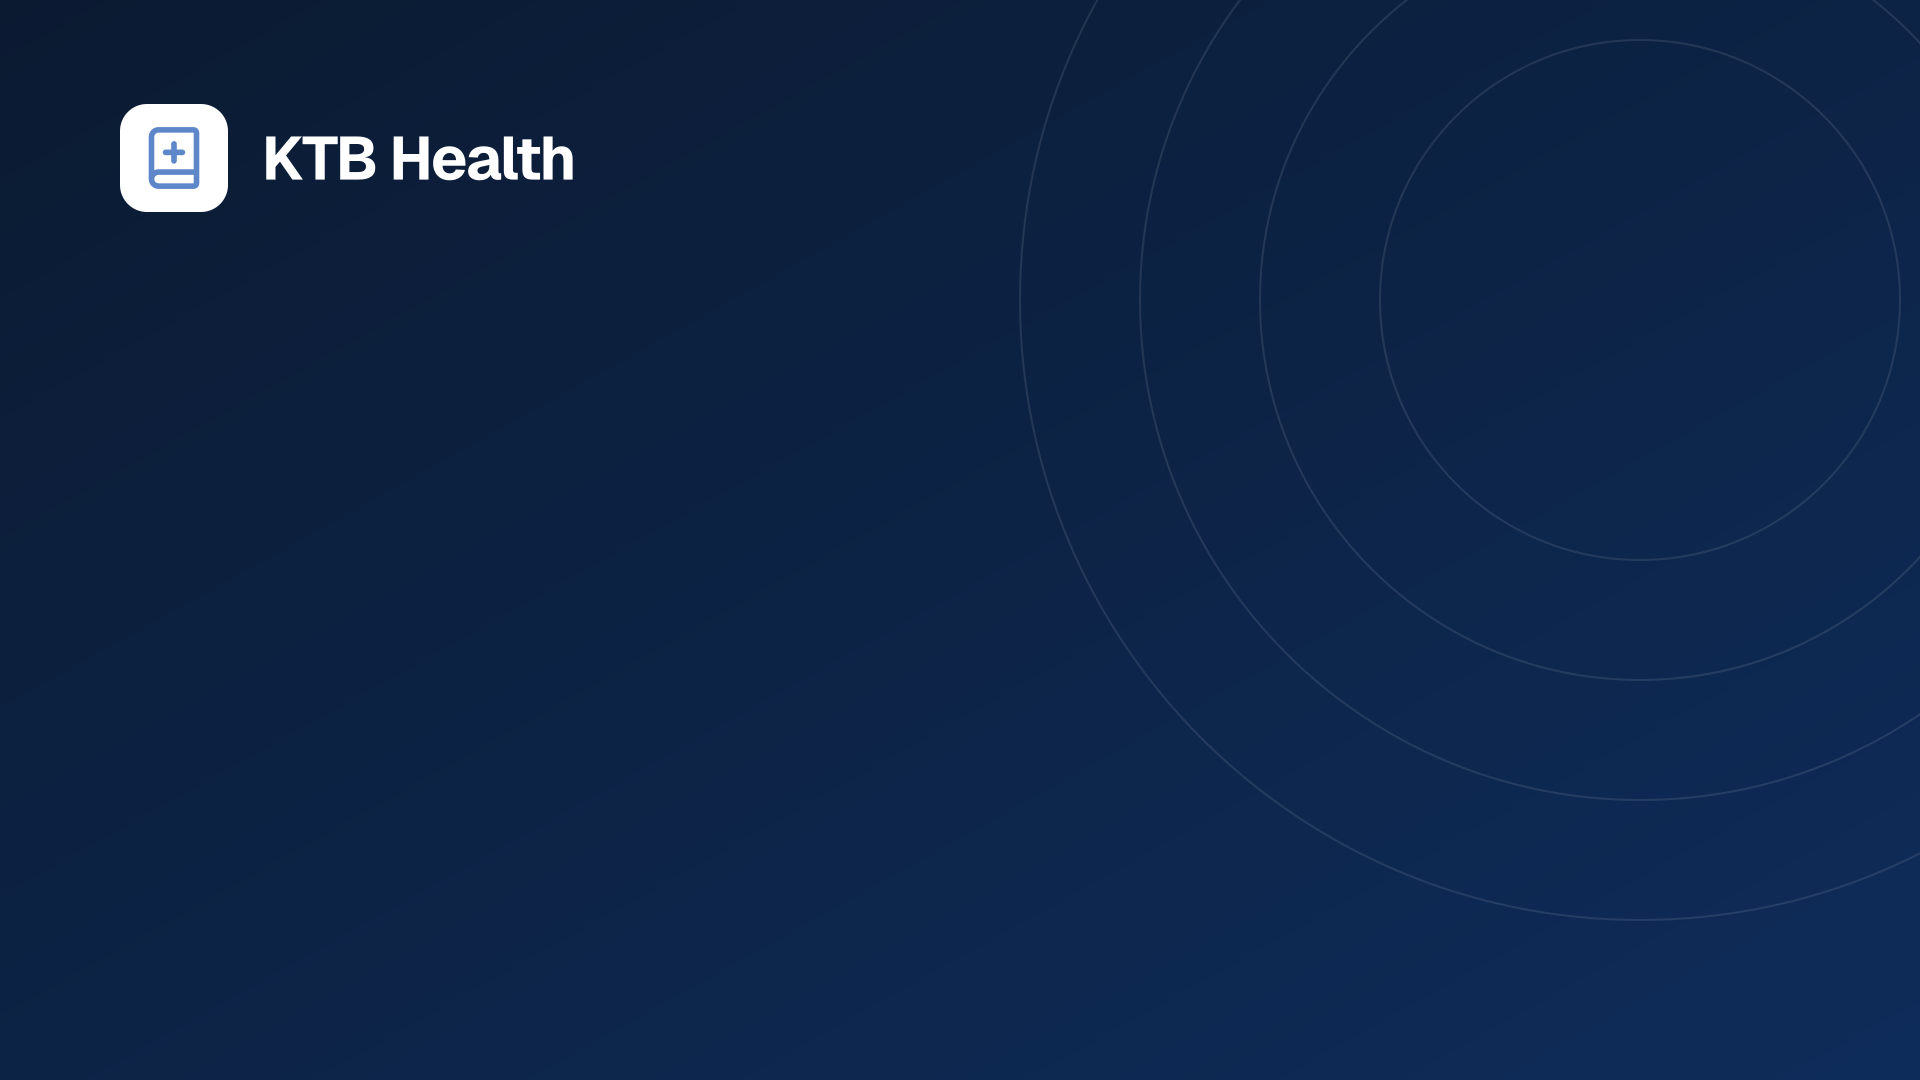
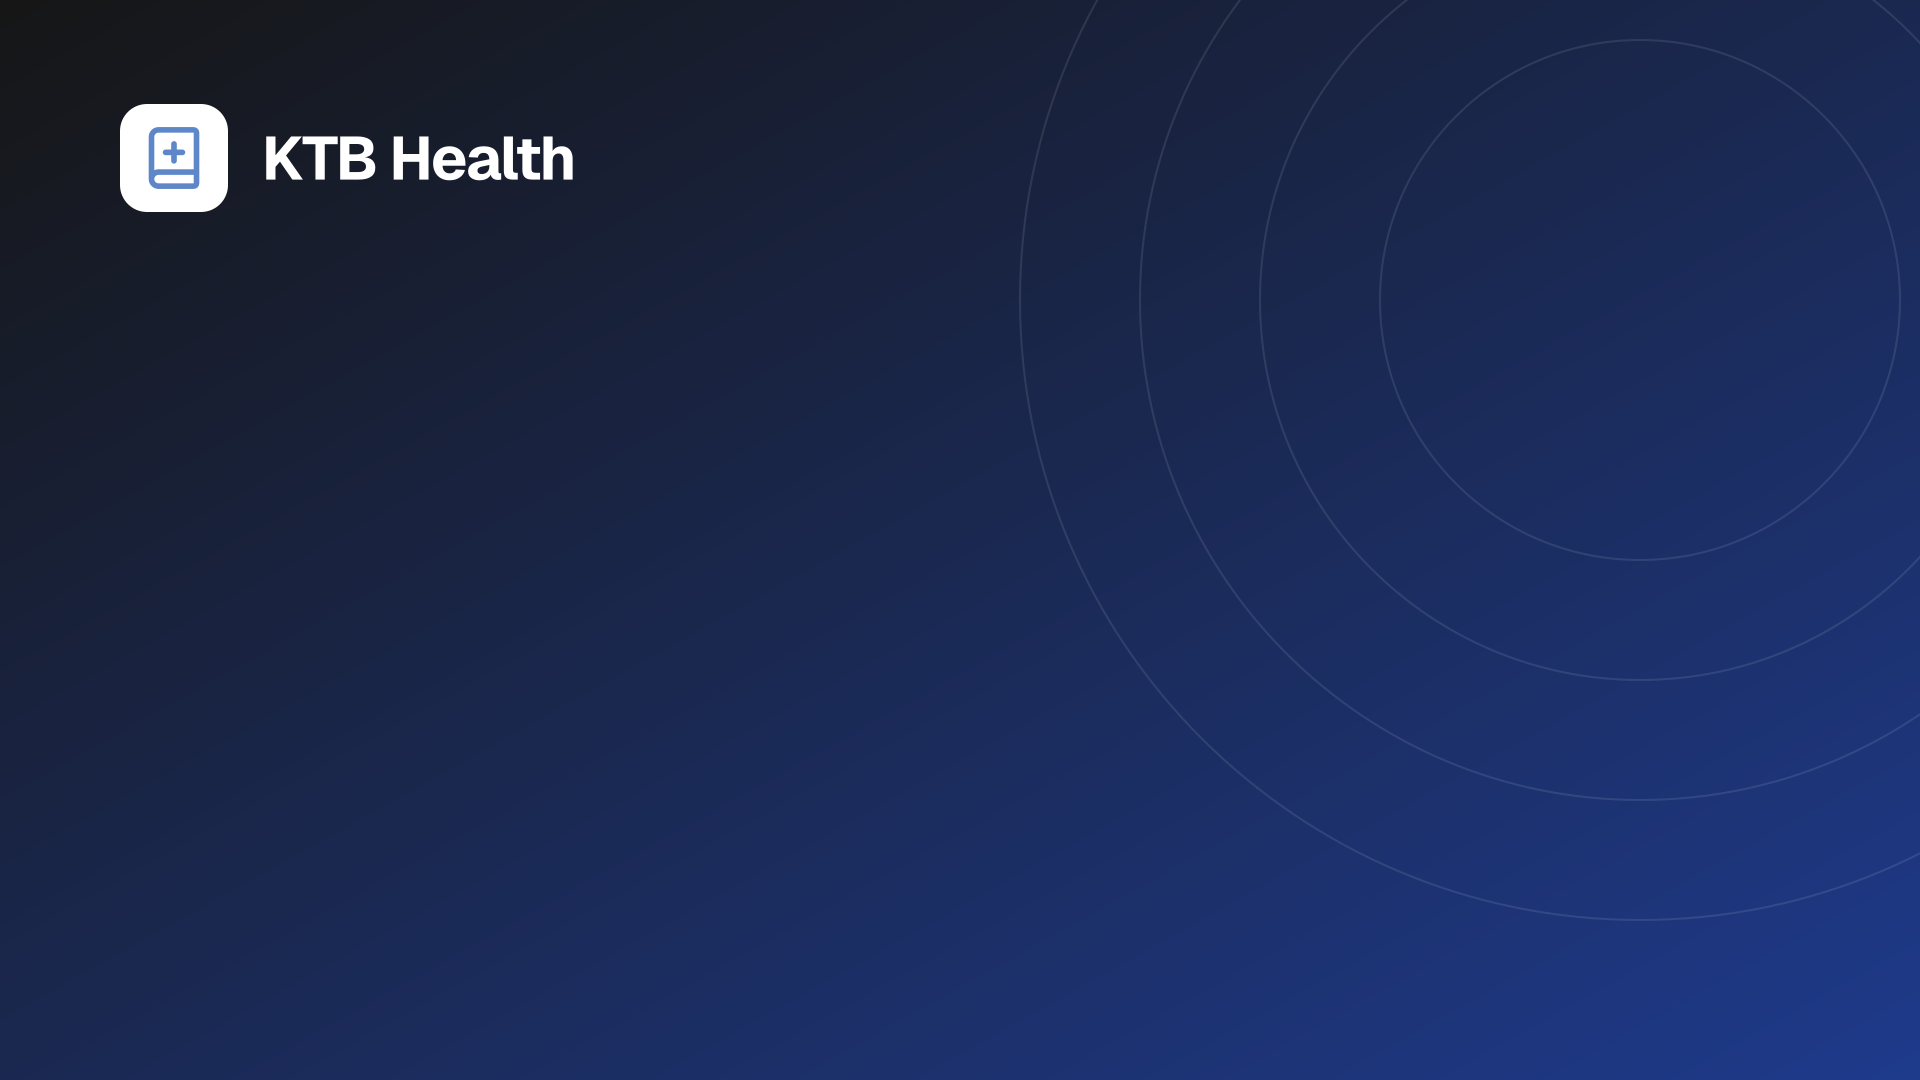
fix(brand): derive every color from design tokens
The dark and soft background colors were derived by hand. Use the tokens
instead: --background and --accent from the light theme and the dark theme
(#161616 -> #1e3a8b for the dark Meet background). colors.json now
only contains token-derived values.

Changed region(s): [[0.3438, 0.3667, 1.0, 1.0], [0.0, 0.0, 0.0625, 0.0611]]

diff --git a/packages/brand/README.md b/packages/brand/README.md
@@ -36,7 +36,7 @@ the same without installing the font.
   Minimum size: 24 px tall for the mark, 96 px wide for the horizontal logo.
 - Use the regular version on light backgrounds and the inverse version on
   dark or brand-blue backgrounds.
-- Colors come from the design tokens (`packages/tailwind`); `colors.json`
+- Every color is a design token (`packages/tailwind`, light and dark theme); `colors.json`
   is generated from them, never edited by hand.
 
 ## Video-call backgrounds
